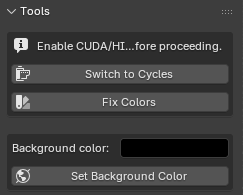
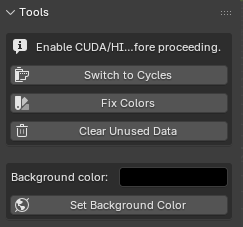
clear unused button

diff --git a/tools/operators.py b/tools/operators.py
@@ -72,3 +72,14 @@ class Tools_SetBackground(bpy.types.Operator):
         if bg_node is not None:
             bg_node.inputs[0].default_value = (color[0], color[1], color[2], 1.0)
         return {"FINISHED"}
+
+
+class Tools_ClearUnusedData(bpy.types.Operator):
+    bl_idname = "blend_et.clear_unused_data"
+    bl_label = "Clear Unused Data"
+    bl_description = "Remove all unused data blocks from the blend file"
+    bl_options = {"REGISTER", "UNDO"}
+
+    def execute(self, context: bpy.types.Context):
+        bpy.ops.outliner.orphans_purge(do_recursive=True)
+        return {"FINISHED"}

diff --git a/tools/__init__.py b/tools/__init__.py
@@ -3,7 +3,12 @@ import bpy
 
 def classes():
     from .props import Tools_Props
-    from .operators import Tools_SwitchToCycles, Tools_FixColors, Tools_SetBackground
+    from .operators import (
+        Tools_SwitchToCycles,
+        Tools_FixColors,
+        Tools_SetBackground,
+        Tools_ClearUnusedData,
+    )
     from .ui import Tools_Panel_3DV
 
     return (
@@ -11,6 +16,7 @@ def classes():
         Tools_SwitchToCycles,
         Tools_FixColors,
         Tools_SetBackground,
+        Tools_ClearUnusedData,
         Tools_Panel_3DV,
     )
 

diff --git a/tools/ui.py b/tools/ui.py
@@ -7,7 +7,7 @@ class Tools_Panel_3DV(bpy.types.Panel):
     bl_region_type = "UI"
     bl_category = "BlendET"
 
-    def draw(self, context):
+    def draw(self, context: bpy.types.Context):
         if (layout := self.layout) is None or (scene := context.scene) is None:
             return
         props = scene.blend_et_tools
@@ -18,6 +18,7 @@ class Tools_Panel_3DV(bpy.types.Panel):
         )
         box.row().operator("blend_et.switch_to_cycles", icon="RENDER_STILL")
         box.row().operator("blend_et.fix_colors", icon="COLOR")
+        box.row().operator("blend_et.clear_unused_data", icon="TRASH")
 
         layout.separator()
         box = layout.box()

diff --git a/README.md b/README.md
@@ -26,7 +26,8 @@ This panel provides quick access to commonly used settings:
 
 1. `Switch to Cycles`: sets the active rendering backend to `Cycles` (needed for volume rendering);
 2. `Fix Colors`: disables the default filmic color-correction for better accuracy;
-3. `Set Background Color`: changes the background color to a defined value.
+3. `Set Background Color`: changes the background color to a defined value;
+4. `Clear Unused Data`: garbage-collect all the data which is not currently linked to any scene.
 
 | ![](docs/tools-panel.png) |
 | :-----------------------: |